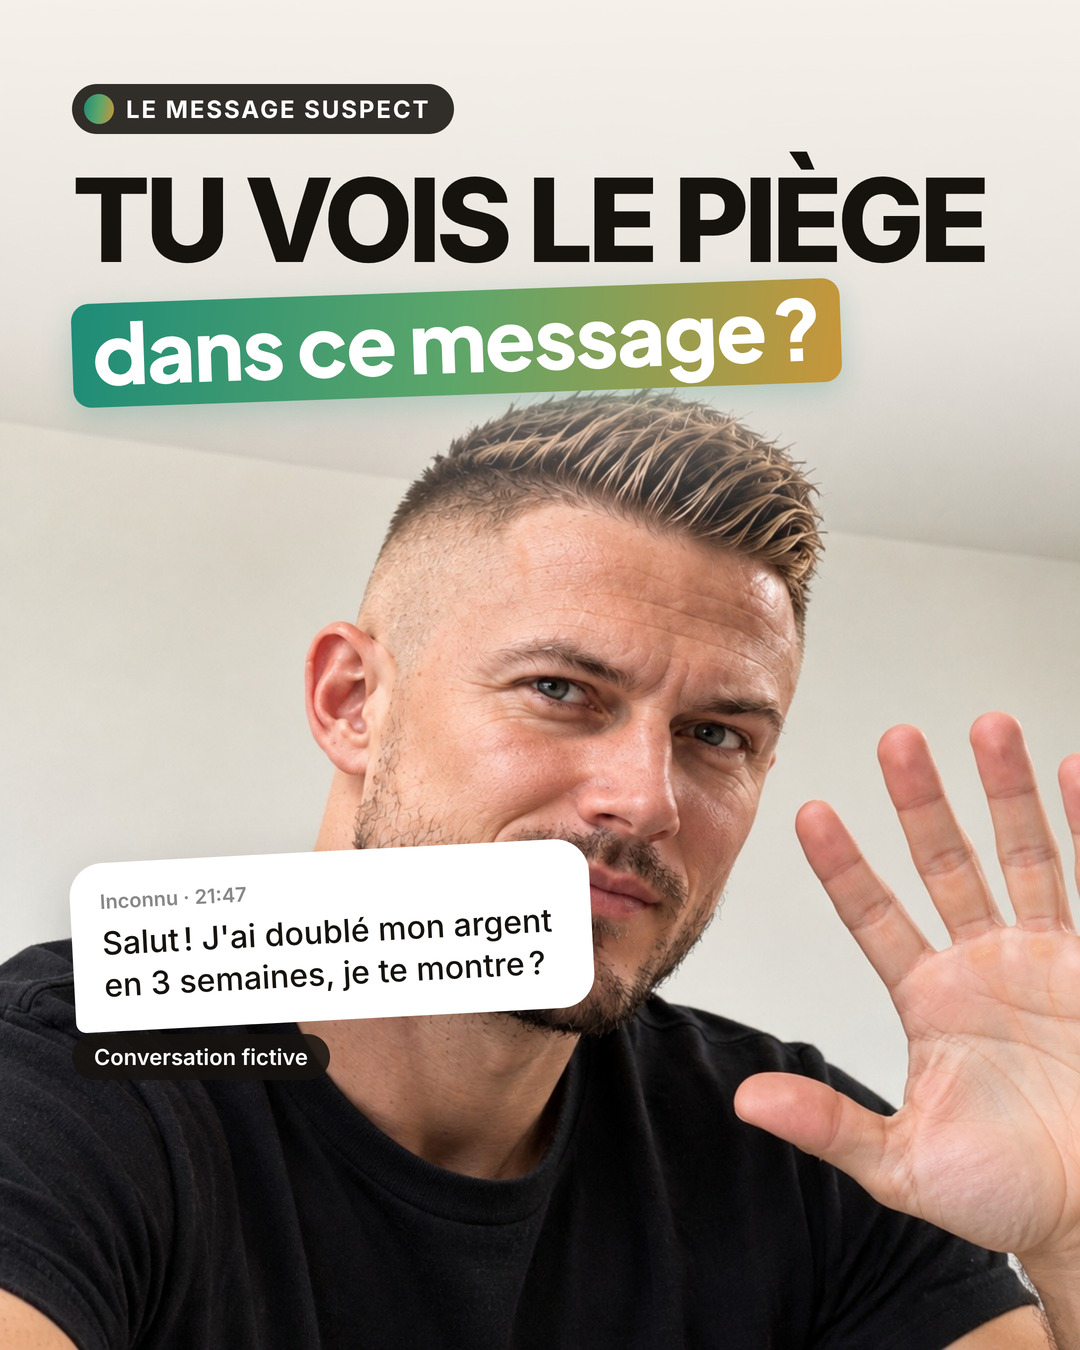
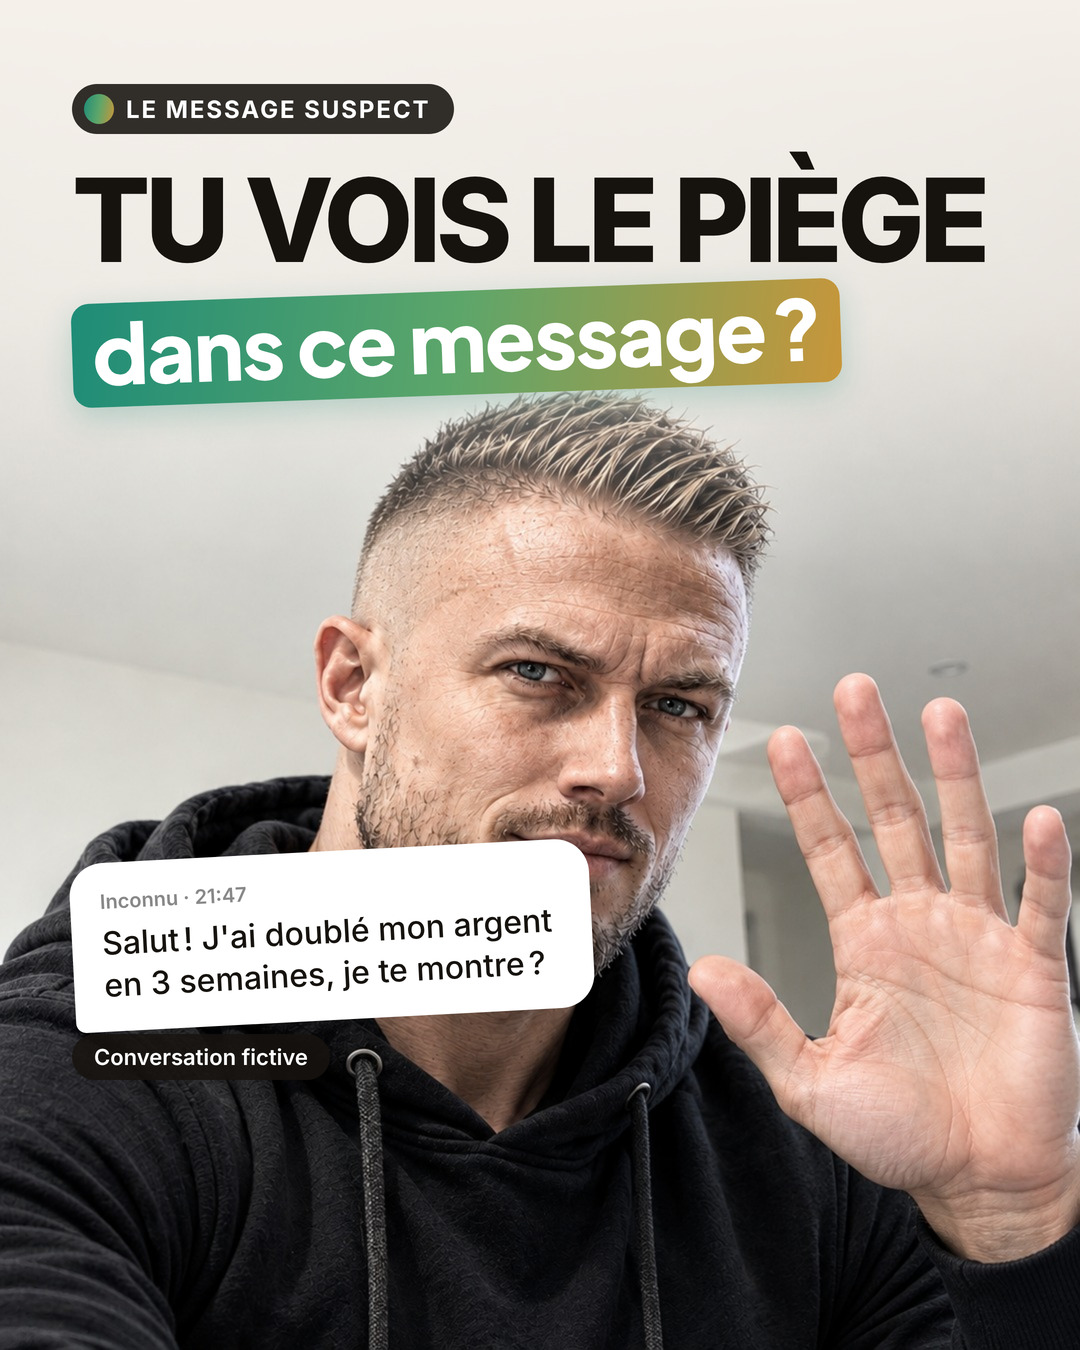
Protagoniste fidèle à la référence : 3 images refaites, W48 re-rendu
Claude-Session: https://claude.ai/code/session_01TLJLY3cP7rDFrvFg3VEPEL

diff --git a/docs/RUNBOOK.md b/docs/RUNBOOK.md
@@ -64,7 +64,7 @@ Fichier `content/<AAAA>-W<ss>/<AAAA-MM-JJ>-<slug>.json` (date = lundi de la sema
 
 ### 5. Visuel de couverture (charte v7)
 - **v7 : couverture selfie** (une sur deux) : même procédure, prompt « style selfie authentique filmé au smartphone, gros plan face caméra, mur clair dans le tiers supérieur, expression vivante liée au sujet », fichier `ia-cover-<slug>-v7.jpg`, style `v7-moderne-selfie`. L'autre couverture est graphique (titre, tuiles, tampon) : pas de génération. Dernière slide : photo lumineuse du protagoniste (`cta_photo`) prise dans le catalogue, une génération seulement si aucune n'est libre.
-- **Couverture photo premium (demande de Laurent, 20/11/2026)** : par défaut une image IA neuve par contenu (`visual: {type: "photo", photo: "ia-cover-<slug>-v6"}`), via Make 8230680 avec `reference_url` = URL publique (raw GitHub au SHA) de `kit/assets/protagonist/ref-portrait.jpg` ou `ref-pensif.jpg` pour les couvertures avec visage (une sur deux), sans référence pour les natures mortes. Prompt : « TEXTE EXACT : aucun. Photographie éditoriale premium, photo-réaliste, du MÊME homme que sur l'image de référence (même visage, même coupe, même barbe), nouvelle scène, nouvelle pose : <scène liée au sujet>. Lumière de cinéma, objectif 85 mm, rendu magazine haut de gamme. Sa tête et ses épaules dans la moitié supérieure ; moitié inférieure sombre (ou ivoire) et calme pour un titre. AUCUN texte, logo, chiffre, écran lisible ; pas d'or, de billets ni de pièces. » Même modèle, format et qualité que la branche sans référence. Budget : 1 génération par contenu + 1 essai, dans les 12 par exécution et 40 par mois. Récupération : `res.cloudinary.com/zqugntn5/image/upload/valorislab/posts/<content_id>_s1_g<n>.png`, redimensionnée en 1080 × 1350 dans `kit/assets/scenes/ia-cover-<slug>-v6.jpg`, ajoutée à `scenes.json` (`"style": "v6-premium"`), enregistrements Data Store supprimés. Sauvegarde du scénario avant l'ajout de la branche : `state/backups/make-8230680-blueprint-2026-11-20-avant-reference.json`.
+- **Couverture photo premium (demande de Laurent, 20/11/2026)** : par défaut une image IA neuve par contenu (`visual: {type: "photo", photo: "ia-cover-<slug>-v6"}`), via Make 8230680 avec `reference_url` = URL publique (raw GitHub au SHA) de `kit/assets/protagonist/ref-sweat-noir.jpg` (seule référence depuis le 20/11/2026 : protagoniste à ne jamais modifier, voir `kit/assets/protagonist/README.md`) pour les couvertures avec visage (une sur deux), sans référence pour les natures mortes. Prompt : « TEXTE EXACT : aucun. Photographie éditoriale premium, photo-réaliste, du MÊME homme que sur l'image de référence (même visage, même coupe, même barbe), nouvelle scène, nouvelle pose : <scène liée au sujet>. Lumière de cinéma, objectif 85 mm, rendu magazine haut de gamme. Sa tête et ses épaules dans la moitié supérieure ; moitié inférieure sombre (ou ivoire) et calme pour un titre. AUCUN texte, logo, chiffre, écran lisible ; pas d'or, de billets ni de pièces. » Même modèle, format et qualité que la branche sans référence. Budget : 1 génération par contenu + 1 essai, dans les 12 par exécution et 40 par mois. Récupération : `res.cloudinary.com/zqugntn5/image/upload/valorislab/posts/<content_id>_s1_g<n>.png`, redimensionnée en 1080 × 1350 dans `kit/assets/scenes/ia-cover-<slug>-v6.jpg`, ajoutée à `scenes.json` (`"style": "v6-premium"`), enregistrements Data Store supprimés. Sauvegarde du scénario avant l'ajout de la branche : `state/backups/make-8230680-blueprint-2026-11-20-avant-reference.json`.
 - Une couverture sur deux : `visual: {type: "face", photo: <scène du catalogue avec "face": true>}` (photos photo-réalistes du protagoniste, jamais détourées ; varier la photo d'une semaine à l'autre). Les autres : l'élément du format (`stamp`, `bubble`, `ticket`, `dossier`, `document`) ou le chiffre clé.
 - Décor IA : plus par défaut. Seulement si un format en a vraiment besoin, avec la procédure et les budgets ci-dessous (archive de la charte v5).
 

diff --git a/docs/STYLE-CARROUSEL.md b/docs/STYLE-CARROUSEL.md
@@ -18,6 +18,9 @@ Inspiration : style des carrousels « studio » modernes envoyés par Laurent (r
 - `options[]` (cartes A/B/C, `state: out|win`), `steps[]` (cartes numérotées), `tiles[]` (tuiles d'appli de bourse fictives), `big` (chiffre géant), verdict (`type: "verdict"`, tampon).
 - `ann[]` : **annotations** = pilules noires avec flèche en dégradé, posées à cheval sur le bord droit du visuel, jamais sur son texte (contrôlé). Saut de ligne : `\n`.
 
+## Protagoniste : ne jamais le modifier (Laurent, 20/11/2026)
+Référence unique `kit/assets/protagonist/ref-sweat-noir.jpg` (voir `kit/assets/protagonist/README.md`) : carrure athlétique et musclée, cheveux courts texturés en pointes avec reflets blonds, dégradé très court, barbe courte, yeux bleu-gris, regard intense, tenue noire (sweat à capuche ou chemise) et montre noire. Le prompt commence par « EXACTEMENT le MÊME homme que sur l'image de référence, sans rien changer à son physique » et décrit ces traits ; seule la scène change (lumineuse). Image qui dérive (visage plus doux, carrure plus fine, autre tenue) = rejetée. Les vraies photos de Laurent ne servent jamais de référence IA.
+
 ## Couverture
 - **Photo façon selfie** du protagoniste (une couverture sur deux) : gros plan face caméra, mur clair en haut pour le titre, expression vivante (sourcil levé, main levée, sourire stupéfait). Image IA neuve via Make avec `reference_url` (RUNBOOK, étape 5), style `v7-moderne-selfie`. Bulle de message (`visual.bubble`), mention fictive (`subtitle` → pastille), chiffre clé (`number`) au-dessus du titre.
 - **Couverture graphique** (l'autre sur deux) : titre-mythe entre « », tuiles du format (`visual.tiles`), tampon « VERDICT ? » (`visual.stamp`).
